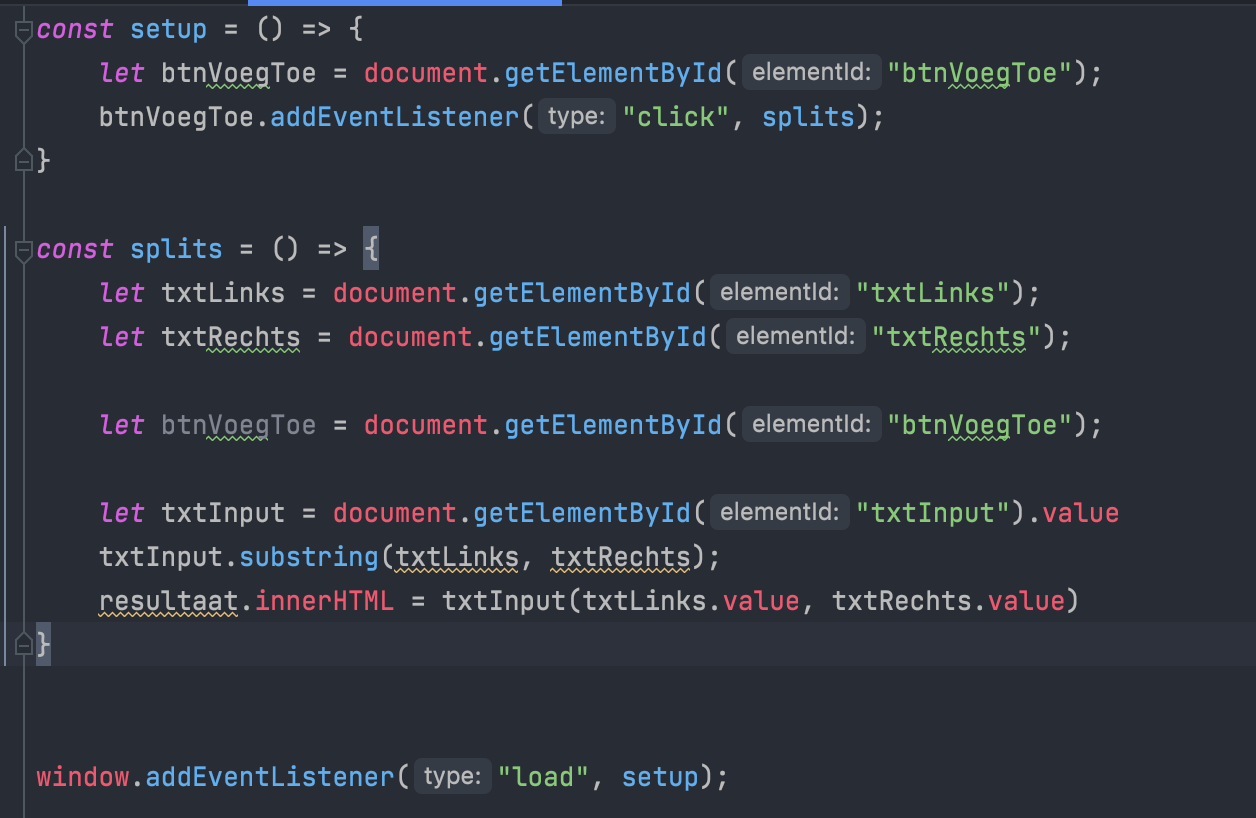
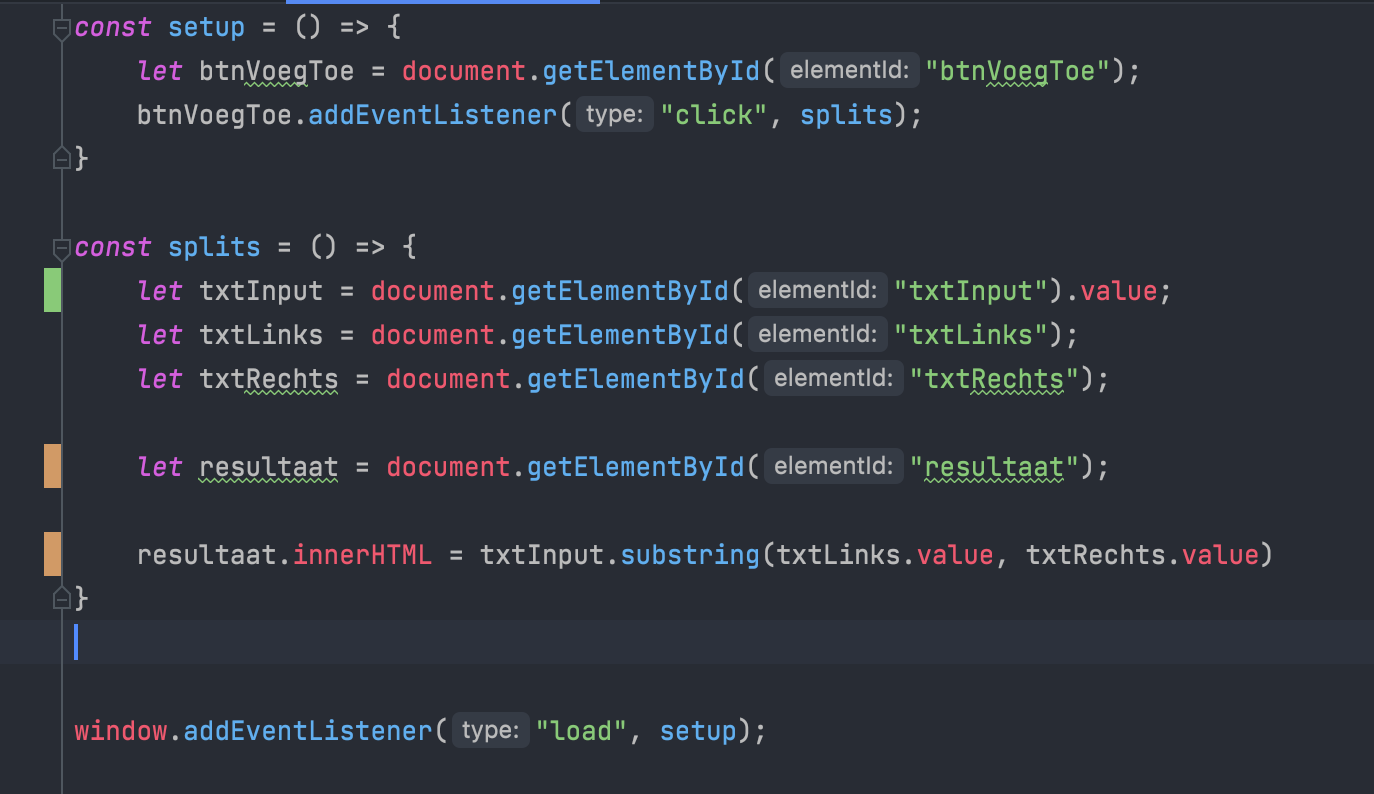
aanpassing substring oefening

diff --git a/JavaScript/Labo 2/Javascript/opdrachtSubstring.js b/JavaScript/Labo 2/Javascript/opdrachtSubstring.js
@@ -4,14 +4,13 @@ const setup = () => {
 }
 
 const splits = () => {
+    let txtInput = document.getElementById("txtInput").value;
     let txtLinks = document.getElementById("txtLinks");
     let txtRechts = document.getElementById("txtRechts");
 
-    let btnVoegToe = document.getElementById("btnVoegToe");
+    let resultaat = document.getElementById("resultaat");
 
-    let txtInput = document.getElementById("txtInput").value
-    txtInput.substring(txtLinks, txtRechts);
-    resultaat.innerHTML = txtInput(txtLinks.value, txtRechts.value)
+    resultaat.innerHTML = txtInput.substring(txtLinks.value, txtRechts.value)
 }
 
 
